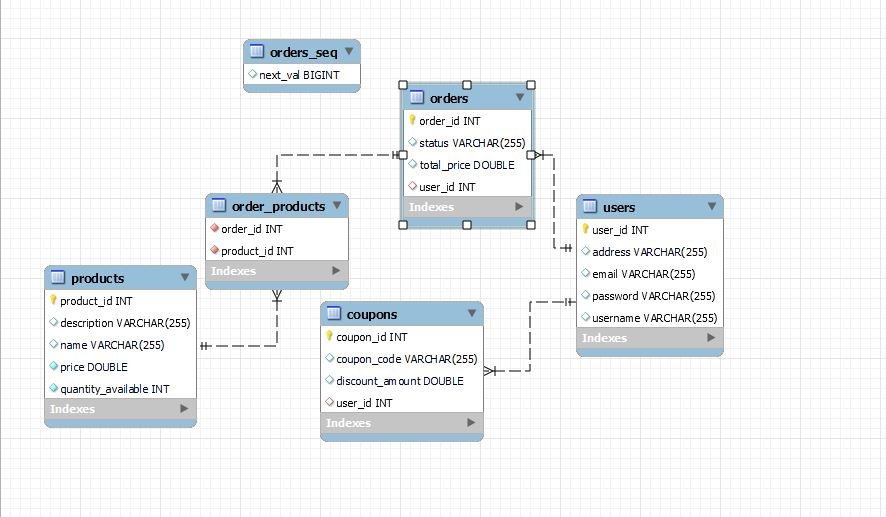
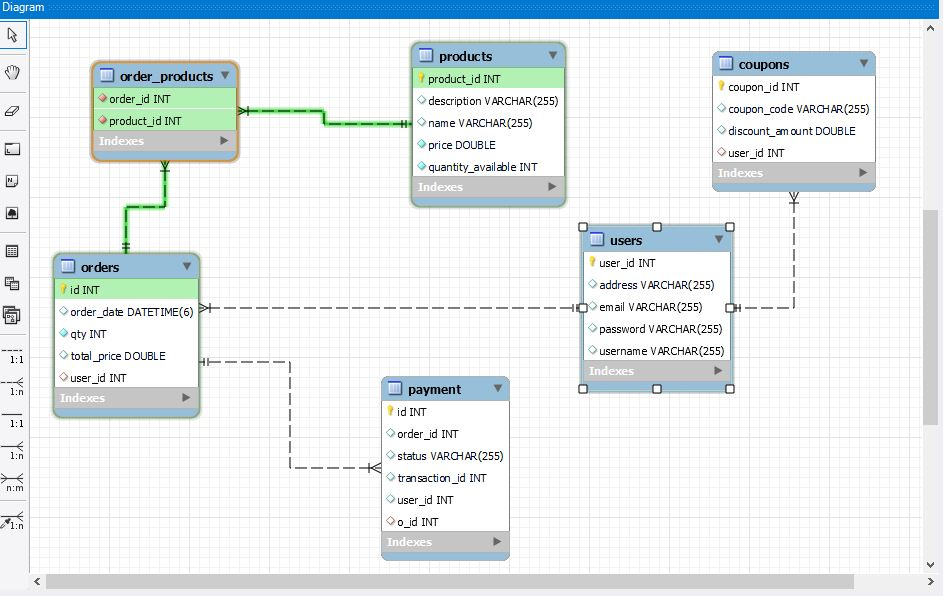
Updates

diff --git a/src/main/java/com/Shopping_Cart/Service/UserServiceImplementation.java b/src/main/java/com/Shopping_Cart/Service/UserServiceImplementation.java
@@ -1,19 +1,21 @@
 package com.Shopping_Cart.Service;
 
 import java.time.LocalDateTime;
-import java.util.HashMap;
+import java.util.HashSet;
 import java.util.List;
-import java.util.Map;
 import java.util.Optional;
+import java.util.Set;
 
 import org.springframework.beans.factory.annotation.Autowired;
 import org.springframework.stereotype.Service;
 
 import com.Shopping_Cart.Models.Coupon;
 import com.Shopping_Cart.Models.Order;
+import com.Shopping_Cart.Models.Payment;
 import com.Shopping_Cart.Models.User;
 import com.Shopping_Cart.Repository.CouponRepository;
 import com.Shopping_Cart.Repository.OrderRepository;
+import com.Shopping_Cart.Repository.PaymentRepository;
 import com.Shopping_Cart.Repository.ProductRepository;
 import com.Shopping_Cart.Repository.UserRepository;
 
@@ -35,35 +37,45 @@ public class UserServiceImplementation implements UserService{
 	@Autowired
 	ProductRepository productRepo;
 	
-	 Map<Integer, Integer> coupons = new HashMap<>();
-	public Order placedOrder(Integer userId, int qty, String coupon) throws Exception {
-		
+	@Autowired
+	PaymentRepository paymentRepo;
+	
+	 Set<Integer> set = new HashSet<>();
+	 
+	@Override
+	public Order placedOrder(Integer userId, Integer qty, String coupon) throws Exception {
+		Payment payment = new Payment();
 		Order order = new Order();
 		Optional<Coupon> coup = couponRepo.findBycouponCode(coupon);
 		if(!coup.isPresent())
 		{
-			throw new Exception("Invalid coupon") ;
+			throw new Exception("Invalid coupon") ;   //Checking for coupon is valid or not
 		}
 		if(qty<1 || qty > dataloader.product1.getQuantityAvailable())
 		{
-			throw new Exception( "Invalid quantity") ;
+			throw new Exception( "Invalid quantity") ;  //Quantity is right or not
 		}
 		
+		System.out.println(set.contains(userId));
 		
-		if(coupons.containsKey(userId))
+		if(set.contains(userId))
 		{
-//			Optional<User> user = userRepo.findById(userId);
-			Optional<User> user = userRepo.findById(userId);
-			System.out.println(user);
-			if(!user.isEmpty())
+			Optional<User> user = userRepo.findById(userId);  //Checking user is present with userId or not
+			if(user.isPresent())
 			{
+//				System.out.println(dataloader.coupon2.getDiscountAmount()+"ye nahi be");
 				order.setUser(user.get()); 
 				order.setQty(qty);
 				order.setOrderDate(LocalDateTime.now());
 				order.setTotalPrice(dataloader.product1.getPrice()*qty);
-				dataloader.product1.setQuantityAvailable(dataloader.product1.getQuantityAvailable()-qty);
+				dataloader.product1.setQuantityAvailable(dataloader.product1.getQuantityAvailable()-qty);  //reset the Available quantity
 				productRepo.save(dataloader.product1);
 				 order = orderRepo.save(order);
+				 payment.setUserId(userId);
+				 payment.setOrderId(order.getId());
+				 payment.setTransactionId(123456789);
+				 payment.setStatus("Successfull");
+				 paymentRepo.save(payment);
 				 return order;
 			}
 			
@@ -75,21 +87,29 @@ public class UserServiceImplementation implements UserService{
 			Optional<User> user = userRepo.findById(userId);
 			if(user.isPresent())
 			{
-				coupons.put(userId,1);
+//				System.out.println(dataloader.coupon2.getDiscountAmount()+"yahi hai");
+				set.add(userId);
 				order.setUser(user.get()); 
 				order.setQty(qty);
 				order.setOrderDate(LocalDateTime.now());
 				if(dataloader.coupon1.getCouponCode()==coupon)
 				{
-					order.setTotalPrice(dataloader.product1.getPrice()*qty*(dataloader.coupon1.getDiscountAmount())/100);
+					Double val = dataloader.product1.getPrice()-dataloader.product1.getPrice()/dataloader.coupon2.getDiscountAmount();// Logic for Discount
+					order.setTotalPrice(val*qty);
 				}
 				else
 				{
-					order.setTotalPrice(dataloader.product1.getPrice()*qty*(dataloader.coupon2.getDiscountAmount())/100);
+					Double val = dataloader.product1.getPrice()-dataloader.product1.getPrice()/dataloader.coupon2.getDiscountAmount();
+					order.setTotalPrice(val*qty);
 				}
-				dataloader.product1.setQuantityAvailable(dataloader.product1.getQuantityAvailable()-qty);
+				dataloader.product1.setQuantityAvailable(dataloader.product1.getQuantityAvailable()-qty);//reset the Available quantity
 				productRepo.save(dataloader.product1);
 				order = orderRepo.save(order);
+				payment.setUserId(userId);
+				 payment.setOrderId(order.getId());
+				 payment.setTransactionId(123456789);
+				 payment.setStatus("Successfull");
+				 paymentRepo.save(payment);
 				return order;
 			}
 			
@@ -107,5 +127,10 @@ public class UserServiceImplementation implements UserService{
 		}
 		return user.get().getOrders();
 	}
+
+
+
+
+
 
 }

diff --git a/src/main/java/com/Shopping_Cart/Controller/PaymentController.java b/src/main/java/com/Shopping_Cart/Controller/PaymentController.java
@@ -1,0 +1,44 @@
+package com.Shopping_Cart.Controller;
+
+import java.util.List;
+import java.util.Optional;
+
+import org.springframework.beans.factory.annotation.Autowired;
+import org.springframework.web.bind.annotation.GetMapping;
+import org.springframework.web.bind.annotation.PathVariable;
+import org.springframework.web.bind.annotation.RestController;
+
+import com.Shopping_Cart.Models.Payment;
+import com.Shopping_Cart.Models.User;
+import com.Shopping_Cart.Repository.OrderRepository;
+import com.Shopping_Cart.Repository.PaymentRepository;
+import com.Shopping_Cart.Repository.UserRepository;
+import com.Shopping_Cart.Service.UserService;
+
+@RestController
+public class PaymentController {
+	
+	@Autowired
+	   private OrderRepository orderRepo;
+	
+	@Autowired
+	PaymentRepository paymentRepo;
+	
+	@Autowired
+	UserService userService;
+	
+	@Autowired
+	UserRepository userRepo;
+
+	@GetMapping("/api/userid/{userid}/orderid/{orderid}")
+	public Payment checkPayment(@PathVariable("userid") Integer userid,@PathVariable("orderid") Integer orderId) throws Exception
+	{
+		Optional<User> user = userRepo.findById(orderId);
+		if(user.get().getOrders().get(orderId-1) != null)
+		{
+			Payment pay = paymentRepo.findPaymentByOrderId(orderId);
+			return pay;
+		}
+		throw new Exception("Invalid userId or OrderId");
+	}
+}

diff --git a/src/main/java/com/Shopping_Cart/Models/Order.java b/src/main/java/com/Shopping_Cart/Models/Order.java
@@ -1,10 +1,12 @@
 package com.Shopping_Cart.Models;
 
 import java.time.LocalDateTime;
+import java.util.ArrayList;
 import java.util.List;
 
 import com.fasterxml.jackson.annotation.JsonIgnore;
 
+import jakarta.persistence.CascadeType;
 import jakarta.persistence.Column;
 import jakarta.persistence.Entity;
 import jakarta.persistence.GeneratedValue;
@@ -14,6 +16,7 @@ import jakarta.persistence.JoinColumn;
 import jakarta.persistence.JoinTable;
 import jakarta.persistence.ManyToMany;
 import jakarta.persistence.ManyToOne;
+import jakarta.persistence.OneToMany;
 import jakarta.persistence.Table;
 import lombok.AllArgsConstructor;
 import lombok.Data;
@@ -52,4 +55,7 @@ public class Order {
     )
     @JsonIgnore
     private List<Product> products;
+    
+    @OneToMany(mappedBy = "orderId", cascade = CascadeType.ALL, orphanRemoval = true)
+    private List<Payment> payments = new ArrayList<>();
 }

diff --git a/src/main/java/com/Shopping_Cart/Models/Payment.java b/src/main/java/com/Shopping_Cart/Models/Payment.java
@@ -1,0 +1,35 @@
+package com.Shopping_Cart.Models;
+
+import jakarta.persistence.Entity;
+import jakarta.persistence.GeneratedValue;
+import jakarta.persistence.GenerationType;
+import jakarta.persistence.Id;
+import jakarta.persistence.JoinColumn;
+import jakarta.persistence.ManyToOne;
+import lombok.AllArgsConstructor;
+import lombok.Data;
+import lombok.NoArgsConstructor;
+import lombok.ToString;
+
+@Entity
+@Data
+@AllArgsConstructor
+@NoArgsConstructor
+@ToString
+public class Payment {
+	@Id
+    @GeneratedValue(strategy = GenerationType.IDENTITY)
+    private Integer id;
+	
+	private Integer userId;
+	
+	private Integer orderId;
+	
+	private Integer transactionId;
+	
+	private String status;
+	
+	@ManyToOne
+    @JoinColumn(name = "o_Id")
+	private Order order;
+}

diff --git a/src/main/java/com/Shopping_Cart/Exception/GlobalException.java b/src/main/java/com/Shopping_Cart/Exception/GlobalException.java
@@ -1,0 +1,22 @@
+package com.Shopping_Cart.Exception;
+
+import java.time.LocalDateTime;
+
+import org.springframework.http.HttpStatus;
+import org.springframework.http.ResponseEntity;
+import org.springframework.web.bind.annotation.ControllerAdvice;
+import org.springframework.web.bind.annotation.ExceptionHandler;
+import org.springframework.web.context.request.WebRequest;
+
+@ControllerAdvice
+public class GlobalException {
+	
+
+	@ExceptionHandler(Exception.class)
+	public ResponseEntity<ErrorDetails> EceptionHandler(Exception ue,WebRequest req){
+		
+		ErrorDetails error = new ErrorDetails(ue.getMessage(),req.getDescription(false),LocalDateTime.now());
+		return new ResponseEntity<ErrorDetails>(error,HttpStatus.BAD_REQUEST);
+	}
+
+}

diff --git a/src/main/java/com/Shopping_Cart/Controller/UserController.java b/src/main/java/com/Shopping_Cart/Controller/UserController.java
@@ -38,7 +38,7 @@ public class UserController {
 	@PostMapping("/api/userid/{userid}")
 	public Order placedOrder(@PathVariable("userid") Integer userid,@RequestParam("qty") Integer qty,@RequestParam("coupon") String coupon) throws Exception
 	{
-		return userService.placedOrder(userid, (int)qty, coupon);
+		return userService.placedOrder(userid, qty, coupon);
 	}
 	
 	@GetMapping("/api/{userid}/orders")

diff --git a/src/main/java/com/Shopping_Cart/Exception/ErrorDetails.java b/src/main/java/com/Shopping_Cart/Exception/ErrorDetails.java
@@ -1,0 +1,18 @@
+package com.Shopping_Cart.Exception;
+
+import java.time.LocalDateTime;
+
+import lombok.AllArgsConstructor;
+import lombok.Data;
+import lombok.NoArgsConstructor;
+
+@Data
+@AllArgsConstructor
+@NoArgsConstructor
+public class ErrorDetails {
+private String message;
+	
+	private String error;
+	
+	private LocalDateTime timestamp;
+}

diff --git a/src/main/java/com/Shopping_Cart/Service/UserService.java b/src/main/java/com/Shopping_Cart/Service/UserService.java
@@ -7,7 +7,7 @@ import com.Shopping_Cart.Models.Order;
 public interface UserService {
 
 	
-	public Order placedOrder(Integer userId,int qty,String coupon) throws Exception;
-	
 	public List<Order> findOrderByUserId(Integer userId) throws Exception;
+
+	public Order placedOrder(Integer userId, Integer qty, String coupon) throws Exception;
 }

diff --git a/src/main/java/com/Shopping_Cart/Repository/PaymentRepository.java b/src/main/java/com/Shopping_Cart/Repository/PaymentRepository.java
@@ -1,0 +1,12 @@
+package com.Shopping_Cart.Repository;
+
+import java.util.Optional;
+
+import org.springframework.data.jpa.repository.JpaRepository;
+
+import com.Shopping_Cart.Models.Payment;
+
+public interface PaymentRepository extends JpaRepository<Payment, Integer>{
+
+	public Payment findPaymentByOrderId(Integer orderId);
+}
